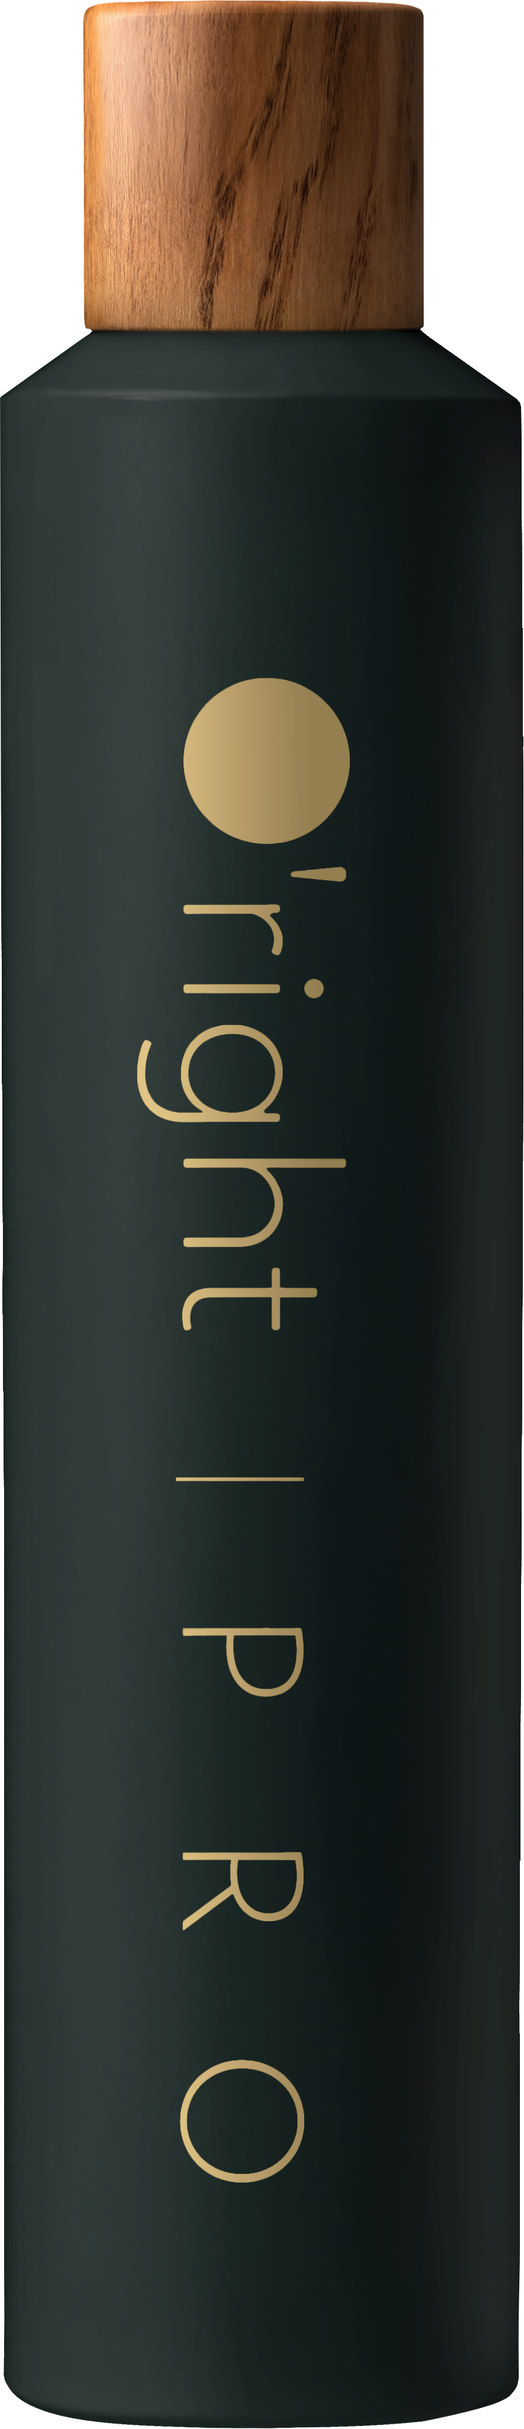
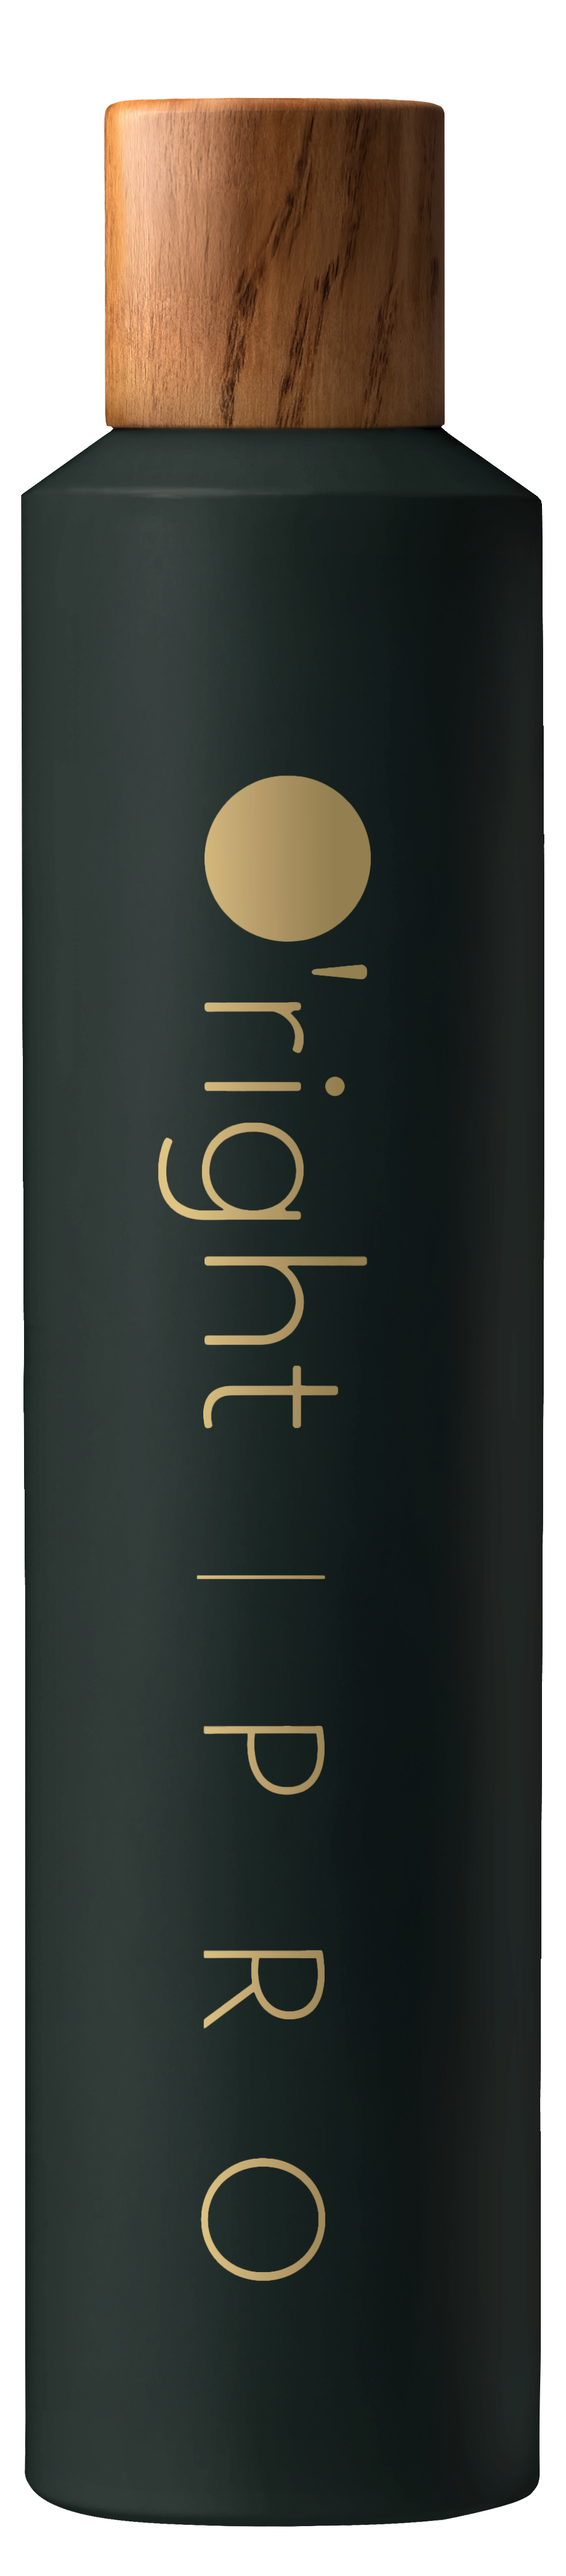
feat: 可搜尋產品選單（input+datalist）＋新品圖加留白修正貼邊裁切感（v2.1）
- 產品選擇改為可打字搜尋：點選顯示全列表、輸入關鍵字即時過濾；三種編輯器統一
- 完整名/品名/唯一關鍵字皆可命中；查無自動恢復；贈品欄清空＝不顯示
- BioAir髮根支撐豐盈感噴霧原圖瓶蓋貼邊（894×4142 零留白），加留白後瓶頂不再貼邊
- 33 組合壓測通過

diff --git a/Coding/index.html b/Coding/index.html
@@ -410,8 +410,8 @@ body {
   border: 1px solid #e5e5e5; border-radius: 4px; background: #f5f5f5; flex-shrink: 0;
 }
 .prod-sel {
-  width: 100%; padding: 4px 5px; border: 1px solid #ddd; border-radius: 4px;
-  font-size: 9.5px; color: #333; background: white; outline: none;
+  width: 100%; padding: 5px 7px; border: 1px solid #ddd; border-radius: 4px;
+  font-size: 11px; color: #333; background: white; outline: none;
 }
 .prod-sel:focus { border-color: #5aaa6a; }
 
@@ -810,6 +810,7 @@ body {
             value="" placeholder="例：抗暑，從頭噴到腳底的救星" oninput="renderDM()">
         </div>
         <div id="block-editors"></div>
+        <datalist id="prod-datalist"></datalist>
       </div>
     </div>
     <div class="editor-footer">
@@ -914,6 +915,7 @@ const UI = {
     generating: '產生中&hellip;', pdfFail: 'PDF 產生失敗，請改用瀏覽器列印（Ctrl+P / 分享→列印）。', jpgFail: 'JPG 產生失敗。',
     previewOn: '預覽模式', previewOff: '返回編輯', reset: '重設',
     resetConfirm: '確定要清除所有編輯內容，回復預設值？',
+    searchPh: '點選或輸入關鍵字搜尋',
   },
   en: {
     navTitle: 'DM Editor', exportJPG: 'Export JPG', exportPDF: 'Export PDF (A4)',
@@ -937,6 +939,7 @@ const UI = {
     generating: 'Generating&hellip;', pdfFail: 'PDF export failed. Please print from the browser instead (Ctrl+P).', jpgFail: 'JPG export failed.',
     previewOn: 'Preview', previewOff: 'Back to edit', reset: 'Reset',
     resetConfirm: 'Clear all edits and restore defaults?',
+    searchPh: 'Click or type to search',
   },
   pl: {
     navTitle: 'Edytor DM', exportJPG: 'Eksport JPG', exportPDF: 'Eksport PDF (A4)',
@@ -960,6 +963,7 @@ const UI = {
     generating: 'Generowanie&hellip;', pdfFail: 'Eksport PDF nie powiódł się. Użyj drukowania w przeglądarce (Ctrl+P).', jpgFail: 'Eksport JPG nie powiódł się.',
     previewOn: 'Podgląd', previewOff: 'Wróć do edycji', reset: 'Resetuj',
     resetConfirm: 'Wyczyścić wszystkie zmiany i przywrócić ustawienia domyślne?',
+    searchPh: 'Kliknij lub wpisz, aby wyszukać',
   },
 };
 function t(k) { return (UI[lang] && UI[lang][k] != null) ? UI[lang][k] : UI.zh[k]; }
@@ -1744,6 +1748,47 @@ function opts(selectedId) {
   ).join('');
 }
 
+/* ── 可搜尋的產品選擇（input + datalist）：點選顯示全列表、打字即時過濾 ── */
+function prodDisplay(id) {
+  const p = getProdOrNull(id);
+  return p ? `【${p.series}】 ${prodName(p.id)}` : '';
+}
+function buildProdDatalist() {
+  const dl = document.getElementById('prod-datalist');
+  if (dl) dl.innerHTML = PRODUCTS.map(p => `<option value="【${p.series}】 ${prodName(p.id)}"></option>`).join('');
+}
+/* 由輸入值解析商品 id：完整顯示名／id／品名；否則唯一子字串命中也接受。查無回 null */
+function resolveProdInput(el, allowEmpty) {
+  const v = el.value.trim();
+  if (!v) return allowEmpty ? '' : null;
+  const hit = PRODUCTS.find(p => `【${p.series}】 ${prodName(p.id)}` === v)
+    || PRODUCTS.find(p => p.id === v || p.name === v || prodName(p.id) === v);
+  if (hit) return hit.id;
+  const subs = PRODUCTS.filter(p => (`【${p.series}】 ${prodName(p.id)} ${p.name}`).includes(v));
+  return subs.length === 1 ? subs[0].id : null;
+}
+function prodSearchInput(curId, onchangeExpr, allowEmpty) {
+  return `<input type="text" class="prod-sel" list="prod-datalist" autocomplete="off"
+    value="${prodDisplay(curId)}" placeholder="${allowEmpty ? t('giftNone') : t('searchPh')}"
+    onfocus="this.select()" onchange="${onchangeExpr}">`;
+}
+/* 三種編輯器的搜尋事件（查無＝恢復原值不動狀態） */
+function onProdSearch(el, idx, field, allowEmpty) {
+  const id = resolveProdInput(el, allowEmpty);
+  if (id === null) { el.value = prodDisplay(state.four[idx][field]); return; }
+  onProd(idx, field, id);
+}
+function onTwoProdSearch(el, ci, pi) {
+  const id = resolveProdInput(el, false);
+  if (!id) { el.value = prodDisplay(state.two[ci].products[pi].prodId); return; }
+  onTwoProdId(ci, pi, id);
+}
+function onOneProdSearch(el, pi) {
+  const id = resolveProdInput(el, false);
+  if (!id) { el.value = prodDisplay(state.one[0].products[pi].prodId); return; }
+  onOneProdId(pi, id);
+}
+
 function cellEditor(idx, title) {
   if (layout === 'one') {
     const c = state.one[0];
@@ -1848,19 +1893,14 @@ function cellEditor(idx, title) {
           <div class="prod-thumb-row">
             <img class="prod-thumb" id="th${idx}m" src="${enc(mp.img)}" alt="">
           </div>
-          <select class="prod-sel" onchange="onProd(${idx},'prodId',this.value)">
-            ${opts(c.prodId)}
-          </select>
+          ${prodSearchInput(c.prodId, `onProdSearch(this,${idx},'prodId',false)`, false)}
         </div>
         <div class="prod-slot">
           <div class="prod-slot-lbl">${t('giftProduct')}</div>
           <div class="prod-thumb-row">
             <img class="prod-thumb" id="th${idx}g" src="${enc(gp.img)}" alt="">
           </div>
-          <select class="prod-sel" onchange="onProd(${idx},'giftId',this.value)">
-            <option value="">${t('giftNone')}</option>
-            ${opts(c.giftId)}
-          </select>
+          ${prodSearchInput(c.giftId, `onProdSearch(this,${idx},'giftId',true)`, true)}
         </div>
       </div>
       <div class="gift-label-field" id="gl-field-${idx}" style="${c.giftId ? '' : 'display:none'}">
@@ -1891,6 +1931,7 @@ function cellEditor(idx, title) {
 }
 
 function buildEditorBlocks() {
+  buildProdDatalist();   // 搜尋選單的選項（依當前語言）
   let html = '';
   if (layout === 'four') {
     html = cellEditor(0,t('cellA')) + cellEditor(1,t('cellB')) +
@@ -1990,9 +2031,7 @@ function oneGridProductEditor(p, prodIdx) {
       </div>
       <div style="display: flex; gap: 6px; margin-bottom: 6px; align-items: center;">
         <img class="prod-thumb" id="th-one-${prodIdx}" src="${enc(prod.img)}" alt="" style="width: 32px; height: 32px; object-fit: contain; border: 1px solid #e5e5e5; border-radius: 4px; background: #f5f5f5; flex-shrink: 0;">
-        <select class="prod-sel" style="flex: 1;" onchange="onOneProdId(${prodIdx}, this.value)">
-          ${opts(p.prodId)}
-        </select>
+        <div style="flex: 1; min-width: 0;">${prodSearchInput(p.prodId, `onOneProdSearch(this,${prodIdx})`, false)}</div>
       </div>
       ${roleSelect}
       ${giftLabelInput}
@@ -2098,9 +2137,7 @@ function twoGridProductEditor(cellIdx, p, prodIdx) {
       </div>
       <div style="display: flex; gap: 6px; margin-bottom: 6px; align-items: center;">
         <img class="prod-thumb" src="${enc(prod.img)}" alt="" style="width: 32px; height: 32px; object-fit: contain; border: 1px solid #e5e5e5; border-radius: 4px; background: #f5f5f5; flex-shrink: 0;">
-        <select class="prod-sel" style="flex: 1;" onchange="onTwoProdId(${cellIdx},${prodIdx},this.value)">
-          ${opts(p.prodId)}
-        </select>
+        <div style="flex: 1; min-width: 0;">${prodSearchInput(p.prodId, `onTwoProdSearch(this,${cellIdx},${prodIdx})`, false)}</div>
       </div>
       ${roleSelect}
       ${giftLabelInput}

diff --git a/Coding/Roadmap.md b/Coding/Roadmap.md
@@ -138,6 +138,12 @@
 - [x] 橫式四格圖片區 100→84px，給文字更多空間
 - [x] 四格標語一律 16px 完整顯示；長品名自動縮至 13.5~14.5px 讓標語有空間；33 組合壓測（含四格標語高度檢查）通過
 
+### v2.1 — 可搜尋產品選單＋新品圖留白
+- [x] 產品選擇改為 input + datalist：點選顯示全列表、打字即時過濾（中英文皆可搜），三種編輯器（四格/兩格/一格）統一
+- [x] 支援完整顯示名／品名／唯一關鍵字命中；查無自動恢復原值；贈品欄清空＝不顯示
+- [x] BioAir髮根支撐豐盈感噴霧產品圖加留白（頂 4%／底 2%／左右 4%）：原圖瓶蓋貼邊，版面上看似被裁切
+- [x] 33 組合壓測通過
+
 ### v2.0 — 兩格改產品清單模型（同一格）
 - [x] 兩格 cell 改為 `{ products:[{prodId, role, giftLabel}], headline, usage, price, origPrice }`：每個產品可調「主商品／輔助商品」，可新增/移除、最多 3 個（邏輯同一格）
 - [x] 編輯欄改為產品清單 UI（下拉＋類型單選＋贈品標籤＋刪除＋新增按鈕）
